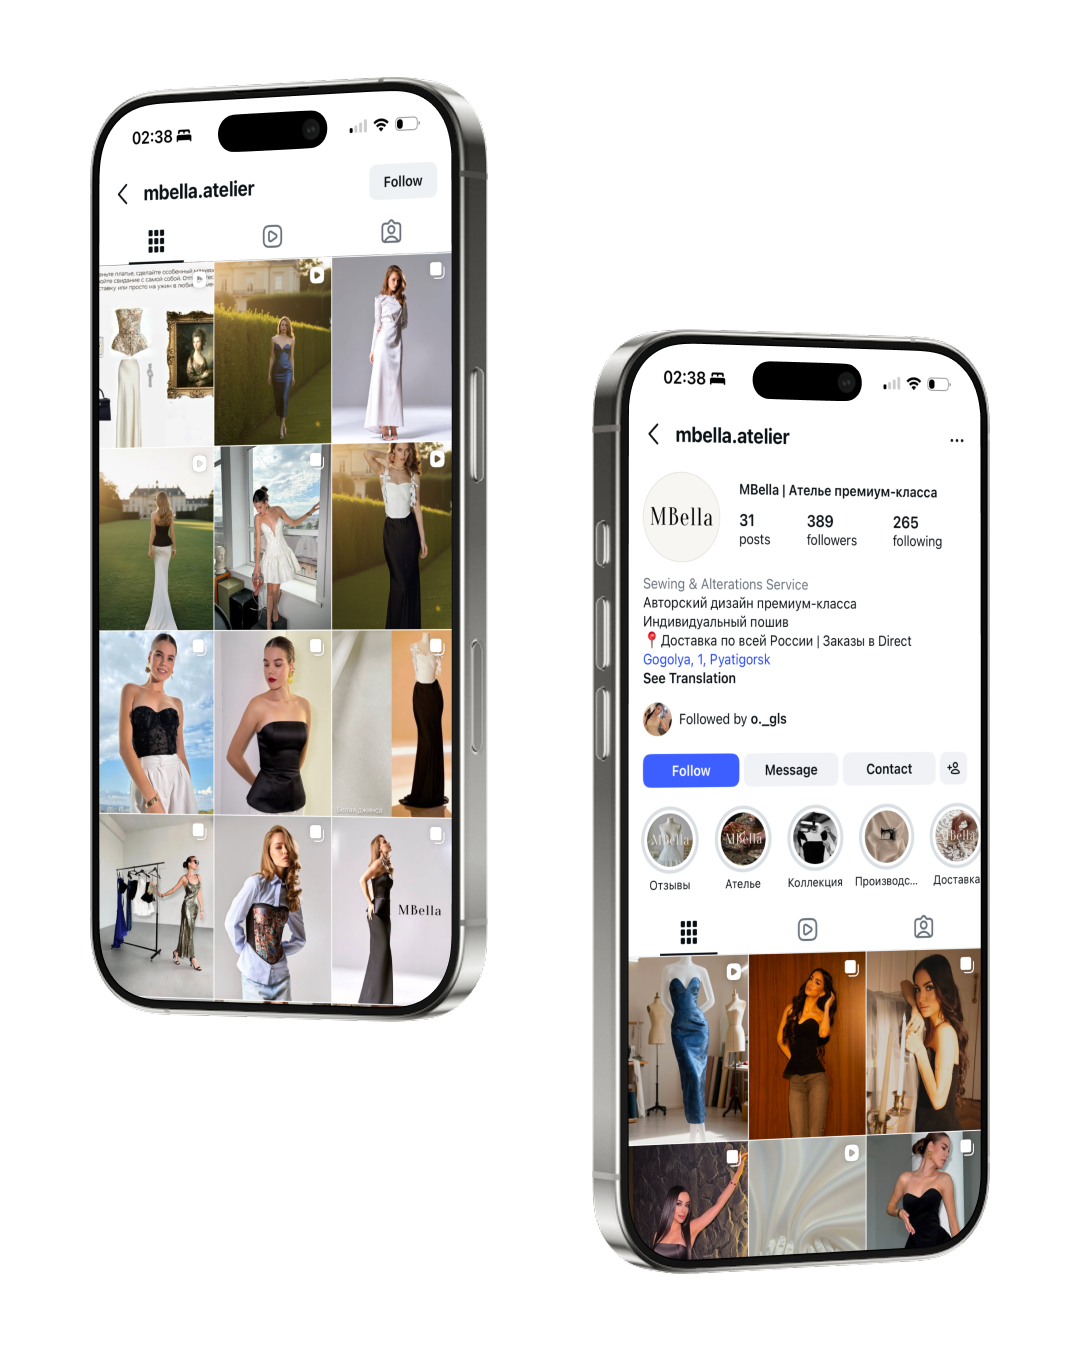
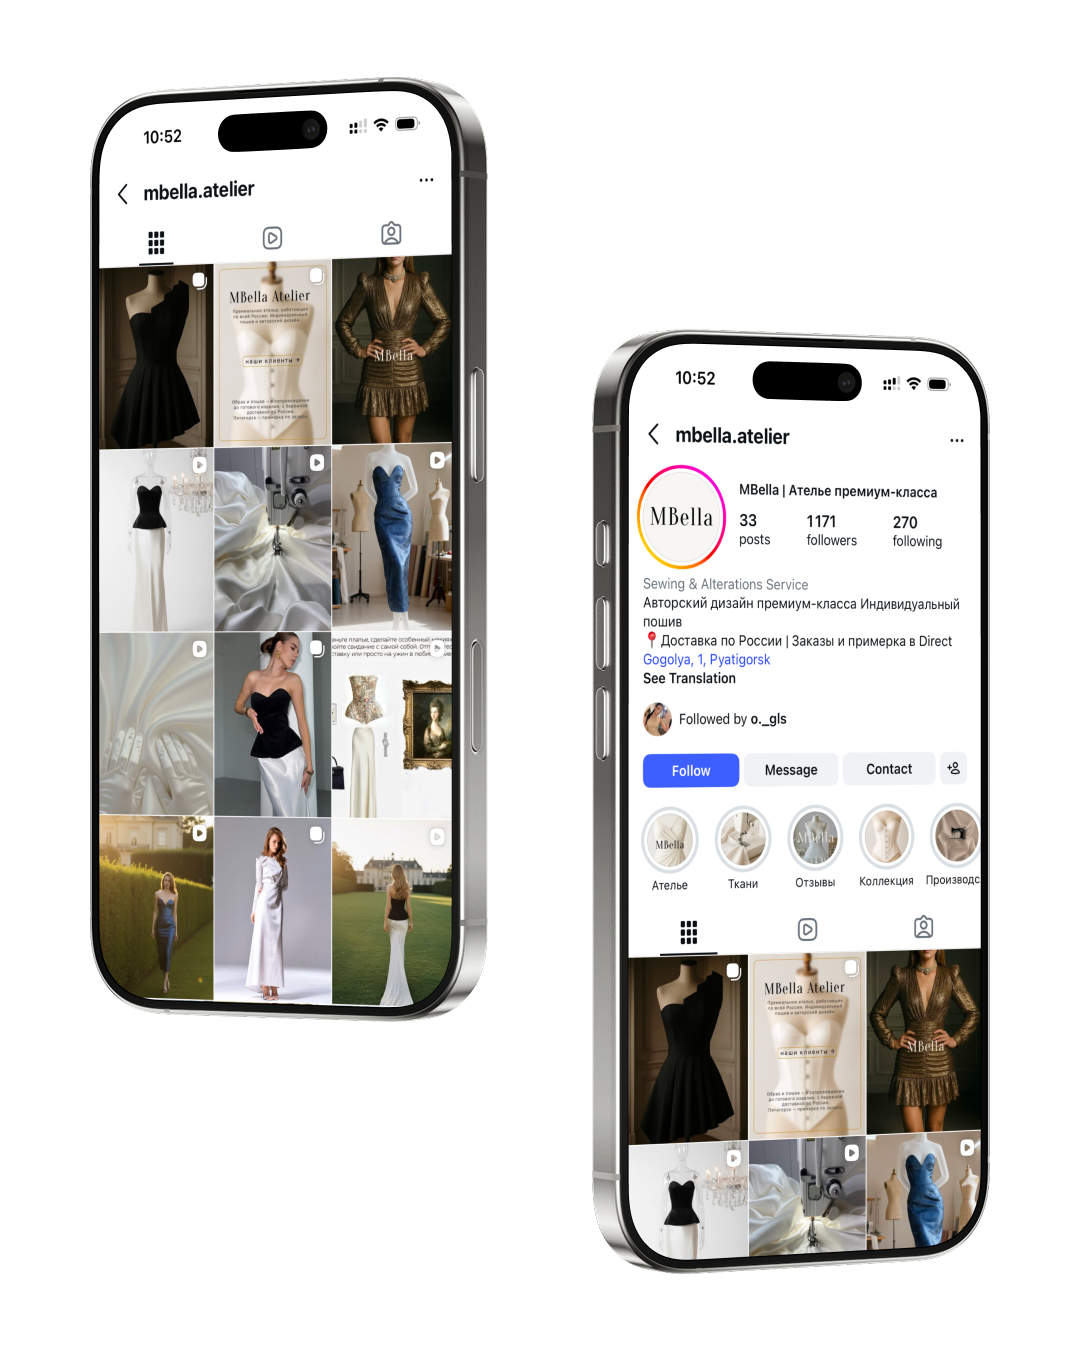
Обновление сайта

diff --git a/yandex_ea12683a3cd02afe.html b/yandex_ea12683a3cd02afe.html
@@ -1,0 +1,6 @@
+<html>
+    <head>
+        <meta http-equiv="Content-Type" content="text/html; charset=UTF-8">
+    </head>
+    <body>Verification: ea12683a3cd02afe</body>
+</html>

diff --git a/google97a159ac1ab23b3f.html b/google97a159ac1ab23b3f.html
@@ -1,0 +1,1 @@
+google-site-verification: google97a159ac1ab23b3f.html
